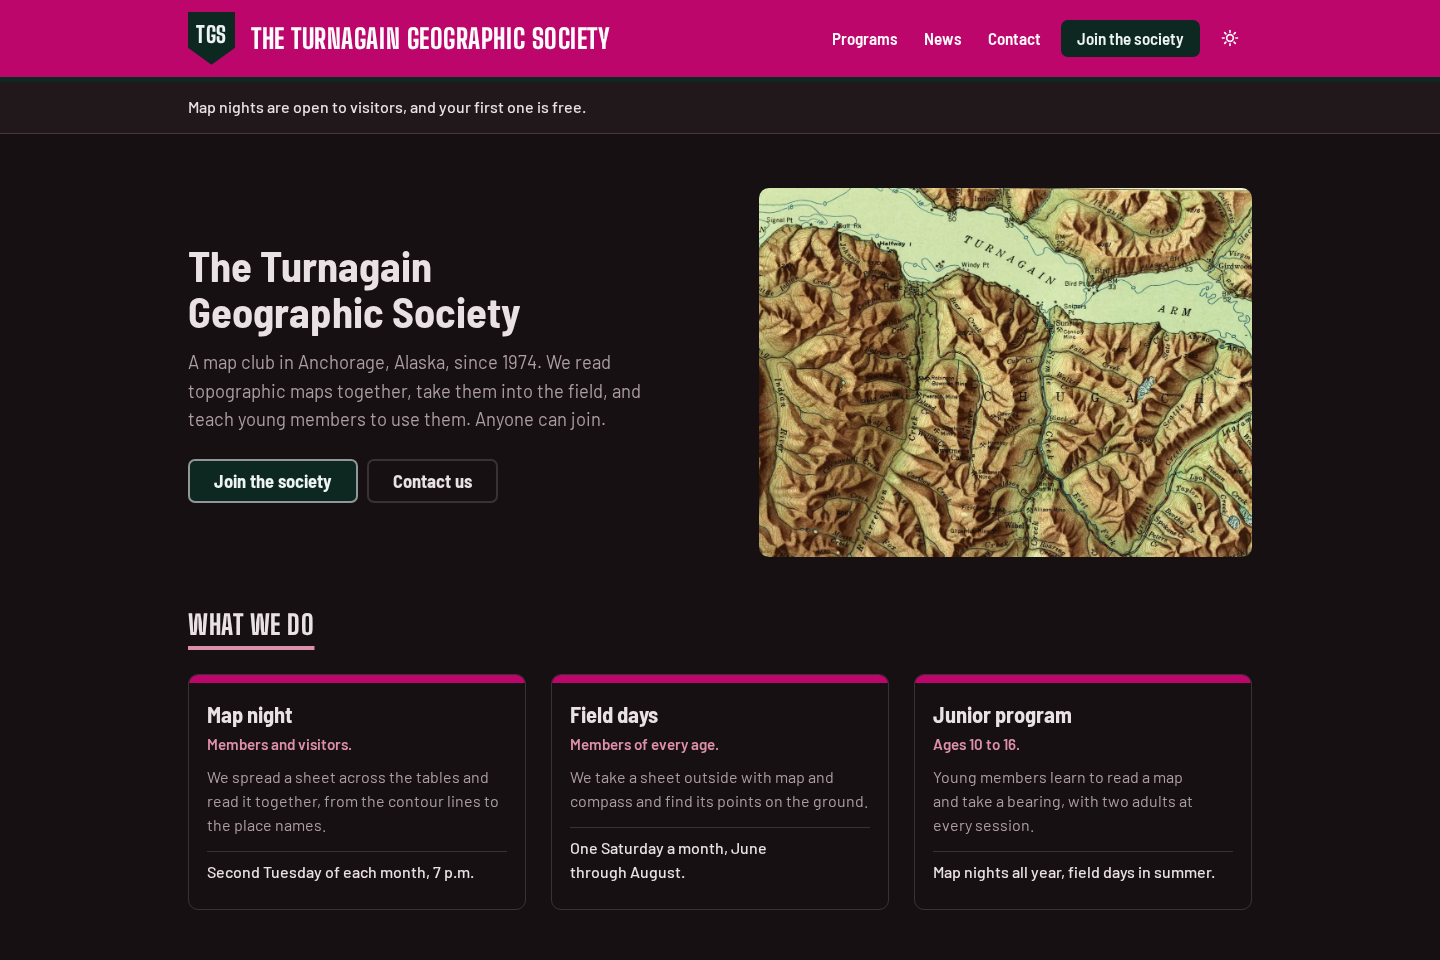
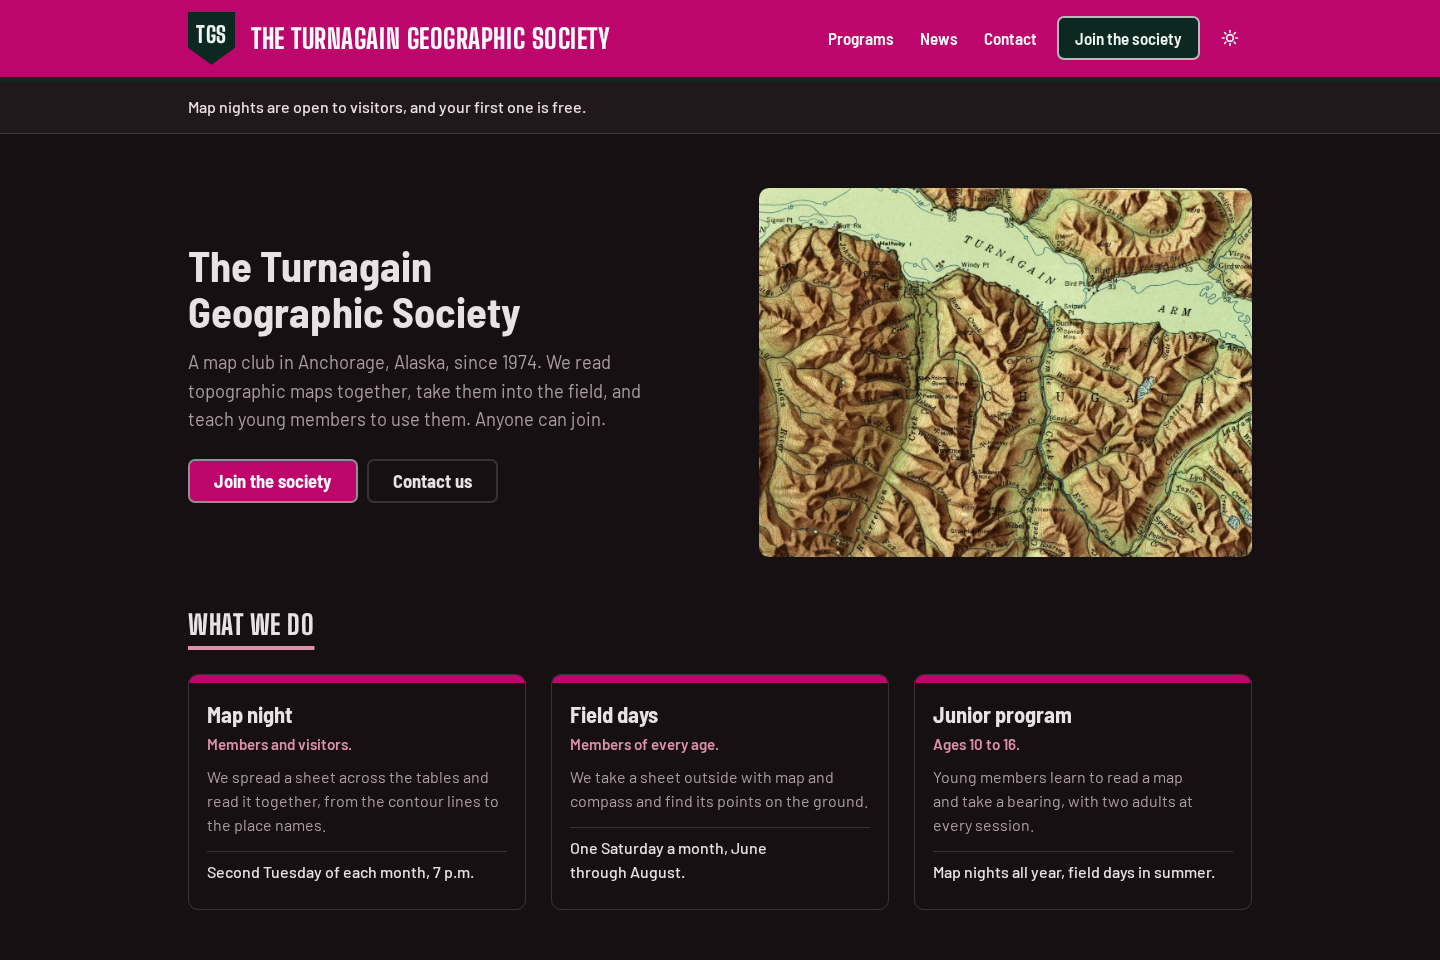
Regenerate Pennant's manifest screenshots and close its menu on Escape
The screenshots predated the color 1 hero button. The header menu now closes on Escape and when focus leaves it, the hero actions are no longer keyed by url, and BACKLOG #536 to #538 record what stays open.

Changed region(s): [[0.5625, 0.0, 0.8438, 0.0625], [0.125, 0.4688, 0.25, 0.5312]]

diff --git a/themes/pennant/components/SiteHeader.svelte b/themes/pennant/components/SiteHeader.svelte
@@ -79,6 +79,21 @@ on a narrow desktop, and a sticky bar that tall would cover a jumped-to heading.
   function toggleTheme() {
     theme = toggleThemeWithTransition(themeConfig, theme);
   }
+
+  /** Escape closes the open menu and returns focus to its summary. */
+  function closeOnEscape(event: KeyboardEvent) {
+    const menu = event.currentTarget as HTMLDetailsElement;
+    if (event.key !== 'Escape' || !menu.open) return;
+    menu.open = false;
+    menu.querySelector('summary')?.focus();
+  }
+
+  /** Focus moving out of the menu closes it; a null target (a click on the page) closes it too. */
+  function closeOnLeave(event: FocusEvent) {
+    const menu = event.currentTarget as HTMLDetailsElement;
+    const next = event.relatedTarget as Node | null;
+    if (!next || !menu.contains(next)) menu.open = false;
+  }
 </script>
 
 {#snippet links(list: NavLink[])}
@@ -105,7 +120,7 @@ on a narrow desktop, and a sticky bar that tall would cover a jumped-to heading.
         </nav>
 
         {#key page.url.pathname}
-          <details class="menu">
+          <details class="menu" onkeydown={closeOnEscape} onfocusout={closeOnLeave}>
             <summary>Menu</summary>
             <nav class="menu-panel" aria-label="Primary">
               {@render links(nav)}

diff --git a/themes/pennant/components/ArticleView.svelte b/themes/pennant/components/ArticleView.svelte
@@ -170,7 +170,7 @@ bare title. Everything else renders identically on both. -->
           {/if}
           {#if actions.length}
             <div class="pennant-hero__actions">
-              {#each actions as action, i (action.url)}
+              {#each actions as action, i}
                 <a
                   href={action.url}
                   rel={isAdminHref(action.url) ? 'external' : undefined}

diff --git a/BACKLOG.md b/BACKLOG.md
@@ -6,8 +6,13 @@
 
 ## Medium
 
+- [ ] **#537** Serialized island props can carry a raw `>`, which a regex splitting rendered HTML must handle by hand `#improvement` `#cairn-cms` *(2026-11-15)*
+  `src/lib/render/rehype-dispatch.ts` writes the island props into `data-cairn-props` with `<` and `>` unescaped. Pennant's `home-split.ts` lifts the banner out of the rendered home body with a scanner, and the close review reproduced a stored XSS when a banner message holding `>` ended the lift early and the remainder reached `{@html}`. The scanner is now quote-aware and tested, but any other theme that splits rendered HTML will hit the same trap. Fix: escape `<` and `>` in the serialized props attribute (as `&lt;`/`&gt;`), which every parser reads back unchanged. Outside pass 4's row. Placement: the next engine pass, with a render test.
+- [ ] **#538** Theme code casts `page.data.actions` and keys nav by `url`, both outside the template's types `#improvement` `#cairn-cms` *(2026-11-15)*
+  `actions` is not on `examples/showcase/src/app.d.ts`'s `App.PageData`, so `SiteHeader.svelte` and `ArticleView.svelte` each cast it differently (`NavNode[]`, and an inline shape). `SiteHeader.svelte` and `SiteFooter.svelte` key `{#each}` by `item.url`, which throws when two nav items share a url (inherited from Waymark's header). Placement: add `actions` to `App.PageData` in the template and showcase, then drop the casts, with the nav key moved to the index.
+
 - [ ] **#536** Pennant's mobile header tabs in a different order than it paints, and its open menu can cover focused content `#improvement` `#cairn-cms` *(2026-11-15)*
-  Found by the close review (WCAG 2.4.3, 2.4.11). Under 760px, `.tools { display: contents }` and `order` paint the mode toggle on row one beside the name, while the DOM and tab order is Menu, Join, toggle. The open `<details>` menu panel is absolutely positioned over `<main>` and closes only on a path change or a summary click, so focus can move into content it covers. Fix: put the toggle first in the markup (and give it `order` at desktop), and close the panel on Escape and on focus leaving it. Placement: the next Pennant release, with the mockup's toggle position kept. Also open from the same review, all optional: a chevron on the Menu summary, a constant toggle name with `aria-pressed`, a focus ring around the whole card, a 3px current-page underline.
+  Found by the close review (WCAG 2.4.3, 2.4.11). Under 760px, `.tools { display: contents }` and `order` paint the mode toggle on row one beside the name, while the DOM and tab order is Menu, Join, toggle. The open `<details>` menu panel is absolutely positioned over `<main>` and closes only on a path change or a summary click, so focus can move into content it covers. The panel now closes on Escape and when focus leaves it (pass 4 close). Still open: the tab order. Fix options: put the toggle first in the markup and give it `order` at desktop, or keep the markup and paint the toggle after Join on mobile, which moves the mockup's toggle position. Placement: the next Pennant release, with the mockup's toggle position kept. Also open from the same review, all optional: a chevron on the Menu summary, a constant toggle name with `aria-pressed`, a focus ring around the whole card, a 3px current-page underline.
 
 - [ ] **#535** The template's root error page uses stock utility classes a theme cannot restyle, so a 404 looks like the chassis, not the theme `#improvement` `#cairn-cms` *(2026-11-15)*
   `templates/waymark/src/routes/+error.svelte` builds the 404 from the header and footer components plus fixed utility classes: a `cairn-band` ground (the tinted base-200), a `text-step-5` heading in the body face, and a button set in `bg-primary`. A theme that owns its header, footer, display face, and button (Pennant) therefore shows a 404 body that belongs to no theme: the tinted ground, a body-face "404", and a plum button that is neither of the set's two colors. The fresh-context grader of pennant pass 4 graded it STRUCTURAL against the mockup (the 404 renders under `scripts/theme/viewer`'s harness, `out/types/*-404-*.png`). Pennant's row could not change it, since the file sits under `templates/`. Placement: a template change that gives the error page theme-owned class hooks (or renders `ArticleView`), with the theme-authoring docs naming the page as part of a theme's surface.
